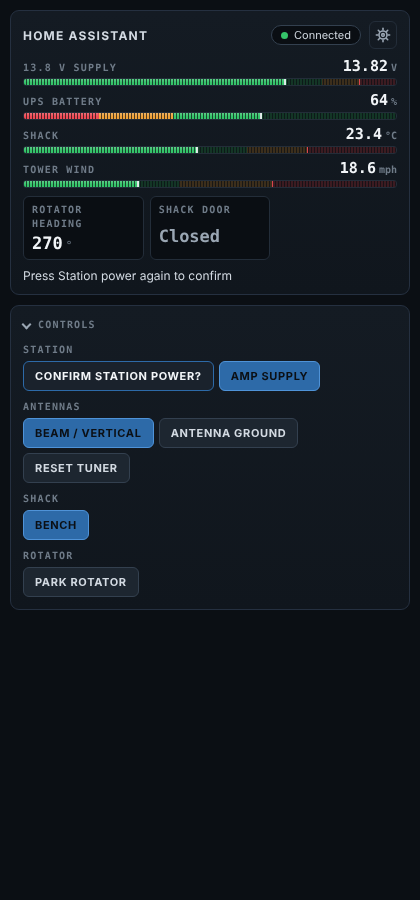
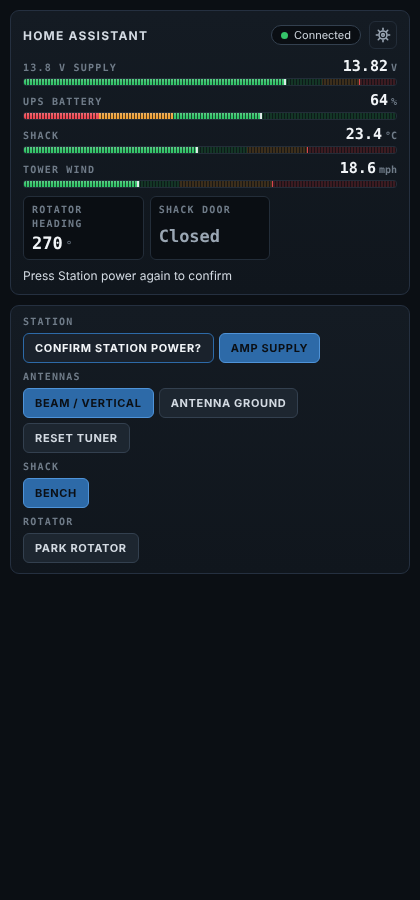
Controls card no longer collapses
The controls sit in a plain card; the group names are the only headings.
Frees the row the collapse header used. Screenshots updated.

Claude-Session: https://claude.ai/code/session_01LLJtumDNvMqybjQvy4EUG2

Changed region(s): [[0.031, 0.3422, 0.7738, 0.6844]]

diff --git a/web/src/home-assistant.js b/web/src/home-assistant.js
@@ -162,28 +162,6 @@ function Icon({ d }) {
 }
 const ICONS = { up: 'M6 15l6-6 6 6', down: 'M6 9l6 6 6-6', edit: 'M4 20h4L19 9l-4-4L4 16v4z', remove: 'M6 6l12 12M18 6 6 18' };
 
-const STORE = `${ROOT}.sections`;
-function loadJson(key) {
-  try { return JSON.parse(localStorage.getItem(key) || '{}') || {}; } catch { return {}; }
-}
-function saveJson(key, v) {
-  try { localStorage.setItem(key, JSON.stringify(v)); } catch { /* storage unavailable */ }
-}
-
-// A card with a button header that collapses its body.
-function Section({ id, title, summary, open, onToggle, children }) {
-  const expanded = !!open;
-  const bodyId = `${ROOT}-${id}`;
-  return h('section', { className: `zha-card zha-section${expanded ? '' : ' collapsed'}` },
-    h('button', {
-      type: 'button', className: 'zha-toggle', 'aria-expanded': expanded, 'aria-controls': bodyId, onClick: onToggle,
-    },
-      h('span', { className: 'zha-chev', 'aria-hidden': 'true' }),
-      h('span', { className: 'zha-label' }, title),
-      !expanded && summary ? h('span', { className: 'zha-summary' }, summary) : null),
-    expanded ? h('div', { id: bodyId, className: 'zha-body' }, children) : null);
-}
-
 // ------------------------------------------------------------------ tile editor (settings)
 
 // Draft tiles hold strings for number boxes so half-typed values survive re-renders.
@@ -324,7 +302,6 @@ function Panel({ api }) {
   const [loadError, setLoadError] = React.useState(null);
   const [msg, setMsg] = React.useState({ text: '', err: false });
   const [view, setView] = React.useState('main');            // 'main' | 'settings'
-  const [openMap, setOpenMap] = React.useState(() => loadJson(STORE));
   const [armed, setArmed] = React.useState(null);            // { id, until } for "press twice" tiles
   const [busy, setBusy] = React.useState({});                // tile id -> true while a command is in flight
   const [flash, setFlash] = React.useState(null);            // button tile that just fired
@@ -412,13 +389,6 @@ function Panel({ api }) {
       setTimeout(() => setFlash((f) => (f === t.id ? null : f)), 700);
     }
   };
-
-  const isOpen = (id, dflt) => (openMap[id] === undefined ? dflt : !!openMap[id]);
-  const flip = (id, dflt) => () => setOpenMap((m) => {
-    const next = { ...m, [id]: !(m[id] === undefined ? dflt : m[id]) };
-    saveJson(STORE, next);
-    return next;
-  });
 
   if (!status) {
     return h('div', { className: ROOT },
@@ -573,7 +543,6 @@ function Panel({ api }) {
     }, t.lockTx && tx ? h(Lock) : null, isArmed ? `Confirm ${tileName(t)}?` : tileName(t));
   };
 
-  const onNames = controls.filter((t) => t.on).map(tileName);
   const unconfigured = c.state === 'unconfigured' || c.state === 'no_token';
 
   return h('div', { className: ROOT },
@@ -595,10 +564,8 @@ function Panel({ api }) {
       readouts.length ? h('div', { className: 'zha-readouts auto' }, readouts.map((t) => h(Readout, { key: t.id, t }))) : null,
       msg.text ? h('div', { className: `zha-msg${msg.err ? ' err' : ''}`, role: 'status', 'aria-live': 'polite' }, msg.text) : null),
 
-    groups.length ? h(Section, {
-      id: 'controls', title: 'Controls', open: isOpen('controls', true), onToggle: flip('controls', true),
-      summary: [onNames.length ? `${onNames.join(', ')} on` : 'All off', tx && anyLocked ? 'Locked (TX)' : ''].filter(Boolean).join(' · '),
-    },
+    // Controls sit in a plain card (no collapse): group names are the only headings needed.
+    groups.length ? h('section', { className: 'zha-card', 'aria-label': 'Controls' },
       groups.map((g) => h('div', { key: g.name, className: 'zha-group' },
         h('h2', { className: 'zha-label' }, g.name),
         h('div', { className: 'zha-row', role: 'group', 'aria-label': g.name }, g.tiles.map(tileButton)))),

diff --git a/web/src/styles.css b/web/src/styles.css
@@ -36,17 +36,7 @@
 .com-n1mjf-homeassistant .zha-msg.err { color: var(--amber); }
 .com-n1mjf-homeassistant .zha-empty { color: var(--fg-2); font-size: 13px; padding: 6px 0; margin: 0; }
 @media (prefers-reduced-motion: reduce) { .com-n1mjf-homeassistant .zha-bar > i, .com-n1mjf-homeassistant button { transition: none; } }
-.com-n1mjf-homeassistant .zha-section { gap: 0; padding: 0; }
-.com-n1mjf-homeassistant .zha-section.collapsed { background: var(--bg-1); }
-.com-n1mjf-homeassistant .zha-body { display: grid; gap: 10px; padding: 2px 12px 12px; }
 .com-n1mjf-homeassistant .zha-form { display: grid; gap: 8px; }
-.com-n1mjf-homeassistant button.zha-toggle { display: flex; align-items: center; gap: 8px; width: 100%; text-align: left; text-transform: none; letter-spacing: normal; background: transparent; border: 0; border-radius: var(--r-md); padding: 9px 12px; min-height: 36px; font-weight: 400; }
-.com-n1mjf-homeassistant button.zha-toggle:hover:not(:disabled) { background: var(--bg-2); border-color: transparent; }
-.com-n1mjf-homeassistant button.zha-toggle:disabled { opacity: 1; cursor: default; }
-.com-n1mjf-homeassistant .zha-chev { width: 7px; height: 7px; border-right: 2px solid var(--fg-2); border-bottom: 2px solid var(--fg-2); transform: rotate(-45deg); transition: transform var(--dur-fast) var(--ease-out); flex: none; }
-.com-n1mjf-homeassistant button[aria-expanded="true"] .zha-chev { transform: rotate(45deg); }
-.com-n1mjf-homeassistant .zha-summary { margin-left: auto; font-family: var(--font-mono); font-size: 11px; color: var(--fg-2); text-align: right; overflow-wrap: anywhere; }
-@media (prefers-reduced-motion: reduce) { .com-n1mjf-homeassistant .zha-chev { transition: none; } }
 .com-n1mjf-homeassistant .zha-head-end { display: flex; align-items: center; gap: 8px; }
 .com-n1mjf-homeassistant button.zha-icon { display: inline-flex; align-items: center; justify-content: center; padding: 0; width: 30px; min-height: 30px; color: var(--fg-2); background: transparent; border-color: var(--line); }
 .com-n1mjf-homeassistant button.zha-icon:hover:not(:disabled) { color: var(--fg-0); }
